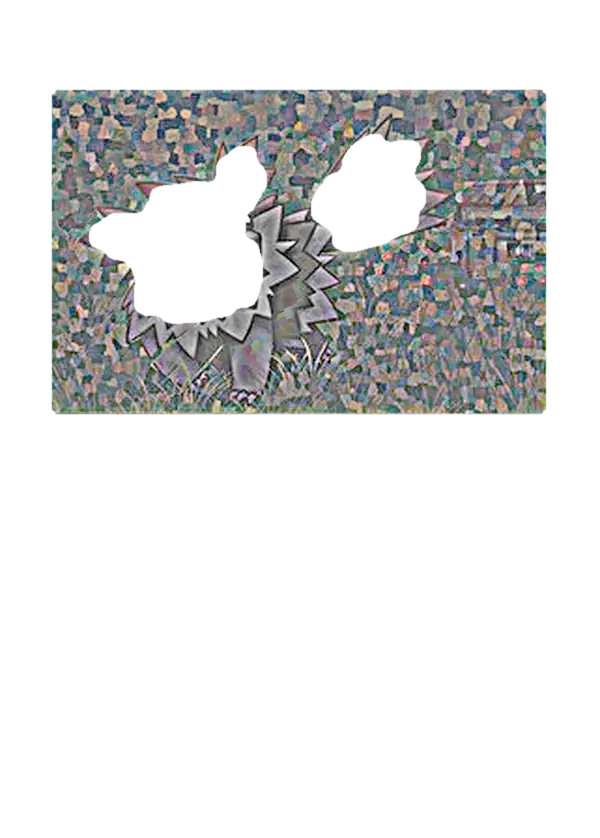
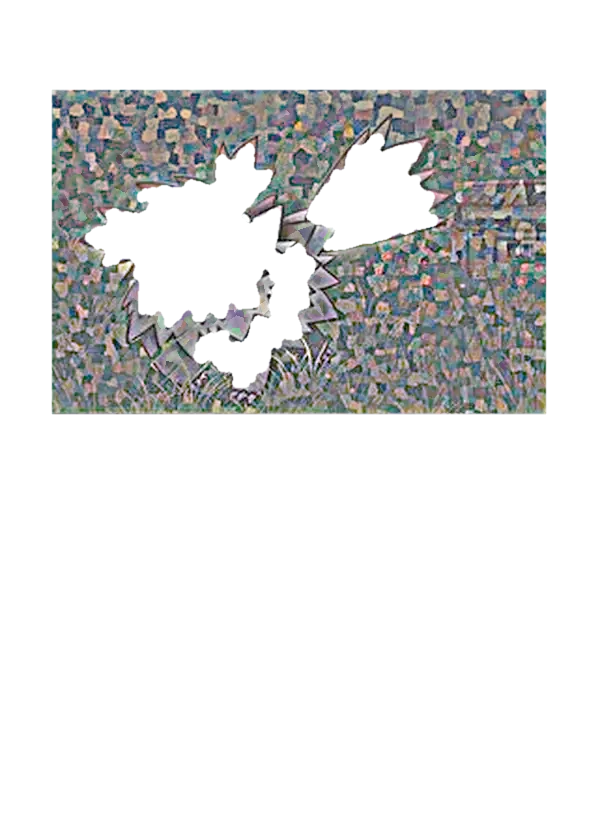
WIP mcd-promos holo family (in progress, not reviewed)
Snapshot of the family agent's work so far, so a container restart cannot
lose it. Not shipped; the family's final commit follows its review.

Claude-Session: https://claude.ai/code/session_01B8RJC6bhck4cqShRYgFuu1

diff --git a/.claude/skills/card-textures/scripts/fam/mcd-promos/make_mcd_maps_v2.py b/.claude/skills/card-textures/scripts/fam/mcd-promos/make_mcd_maps_v2.py
@@ -310,7 +310,7 @@ def build(cid):
     poke = None
     Bw = None
     best = None
-    cands = list(dict.fromkeys(C.get(cid, []) + name_candidates(cid)))[:7]
+    cands = [] if cid in OA else list(dict.fromkeys(C.get(cid, []) + name_candidates(cid)))[:7]  # new artwork: no set print to register
     for sid in cands:
         p = img_path(sid)
         if not p:
